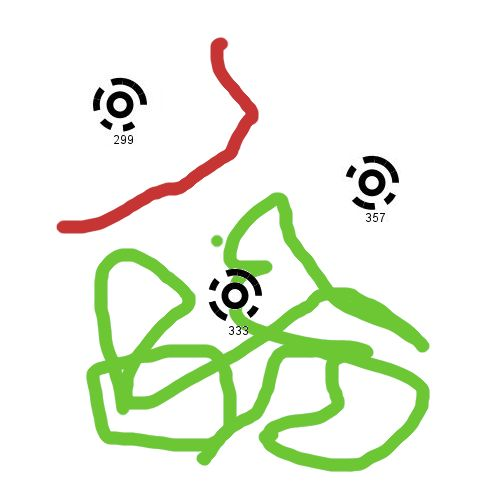
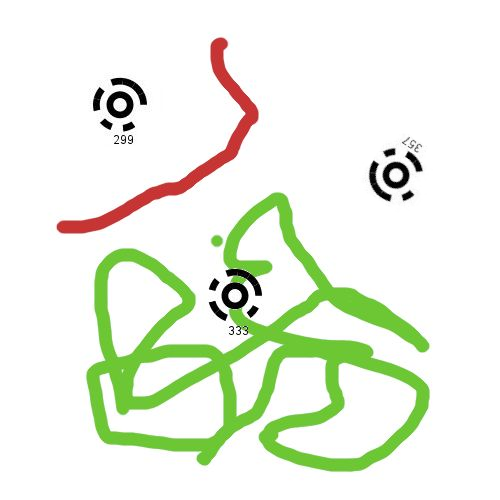
correctly drawn topcodes

Changed region(s): [[0.69, 0.27, 0.84, 0.45]]

diff --git a/topcodes/topcode.py b/topcodes/topcode.py
@@ -221,17 +221,17 @@ class TopCode(object):
         sweep: float = 360.0 / self.SECTORS
         sweepa: float = self.orientation * (180 / math.pi)
         r: float = self._width * 0.5 * self._unit
-        r_ceil = math.ceil(r)
+        r_ceil = round(r)
         #im = Image.new("RGBA", (2*r_ceil,2*r_ceil))
         draw = ImageDraw.Draw(im)
 
         #draw.rectangle([0,0,500,500], fill=(128,128,128))
-        box = tuple([self.x - r_ceil, self.y - r_ceil, self.x + r_ceil, self.y + r_ceil])
-        draw.ellipse(box, fill=(255,255,255), outline=None, width=1)
+        box = [self.x - r_ceil, self.y - r_ceil, self.x + r_ceil, self.y + r_ceil]
+        draw.ellipse(box, fill=(255,255,255), outline=(255,255,255), width=1)
 
-        for i in range(self.SECTORS-1, -1, -1):
+        for i in range(0, self.SECTORS, 1):
             color = (255,255,255) if ((bits & 0x1) > 0) else (0,0,0)
-            start = i * sweep + sweepa - 90.0
+            start = i * sweep + sweepa 
             end = start+sweep
             draw.pieslice(box, start, end, fill=color, width=1)
             bits >>= 1
@@ -239,17 +239,17 @@ class TopCode(object):
         r -= self.unit
         color = (255,255,255)
         box = [self.x - r, self.y - r, self.x + r, self.y + r]
-        draw.ellipse(box, fill=color, outline=None, width=1)
+        draw.ellipse(box, fill=color, outline=(255,255,255), width=1)
 
         r -= self.unit
         color = (0,0,0)
         box = [self.x - r, self.y - r, self.x + r, self.y + r]
-        draw.ellipse(box, fill=color, outline=None, width=1)
+        draw.ellipse(box, fill=color, outline=(0,0,0), width=1)
 
         r -= self.unit
         color = (255,255,255)
         box = [self.x - r, self.y - r, self.x + r, self.y + r]
-        draw.ellipse(box, fill=color, outline=None, width=1)
+        draw.ellipse(box, fill=color, outline=(255,255,255), width=1)
 
         im.save("code"+str(self.code)+".png", format="PNG")
 

diff --git a/topcodes/debugwindow.py b/topcodes/debugwindow.py
@@ -94,6 +94,7 @@ while True:
         window["-highlight-"].update(disabled=False)
         window["-threshold-"].update(disabled=False)
         loadImage(values["-path-"])
+
     if event == "-threshold-":
         if not show_threshold:
             image: Image.Image = myScanner.getPreview()
@@ -108,6 +109,7 @@ while True:
             loadImage(values["-path-"])
             window["-threshold-"].update(text="Show Threshold")
             show_threshold = False   
+            
     if event == "-highlight-":
         if not show_topcodes:
             drawCodes(values["-path-"])
